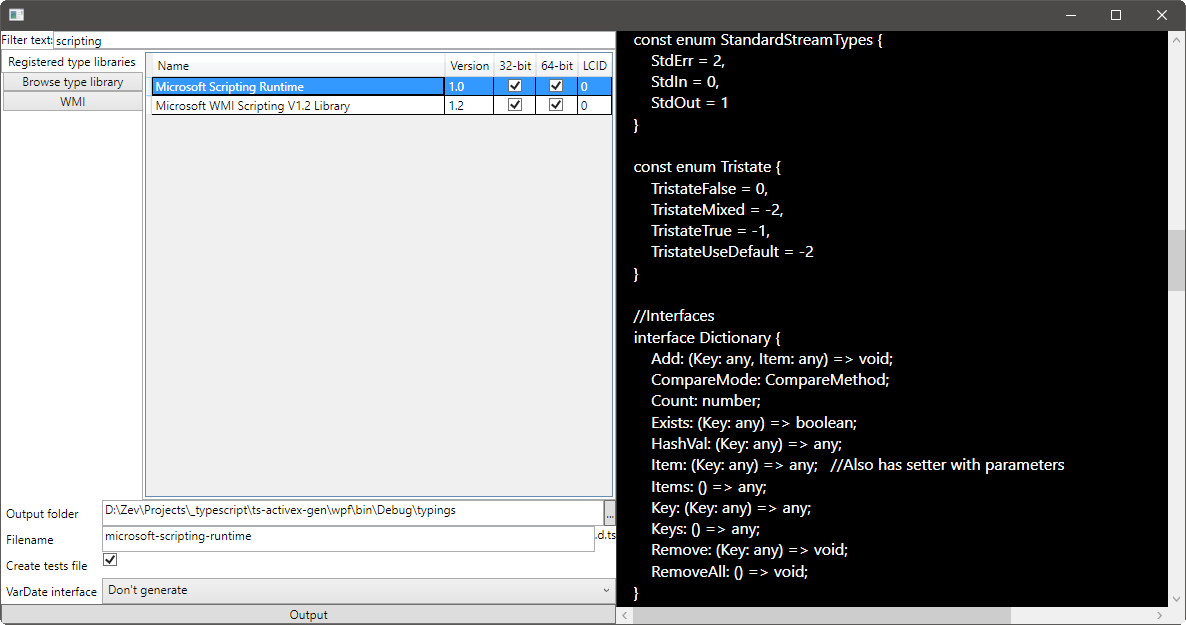
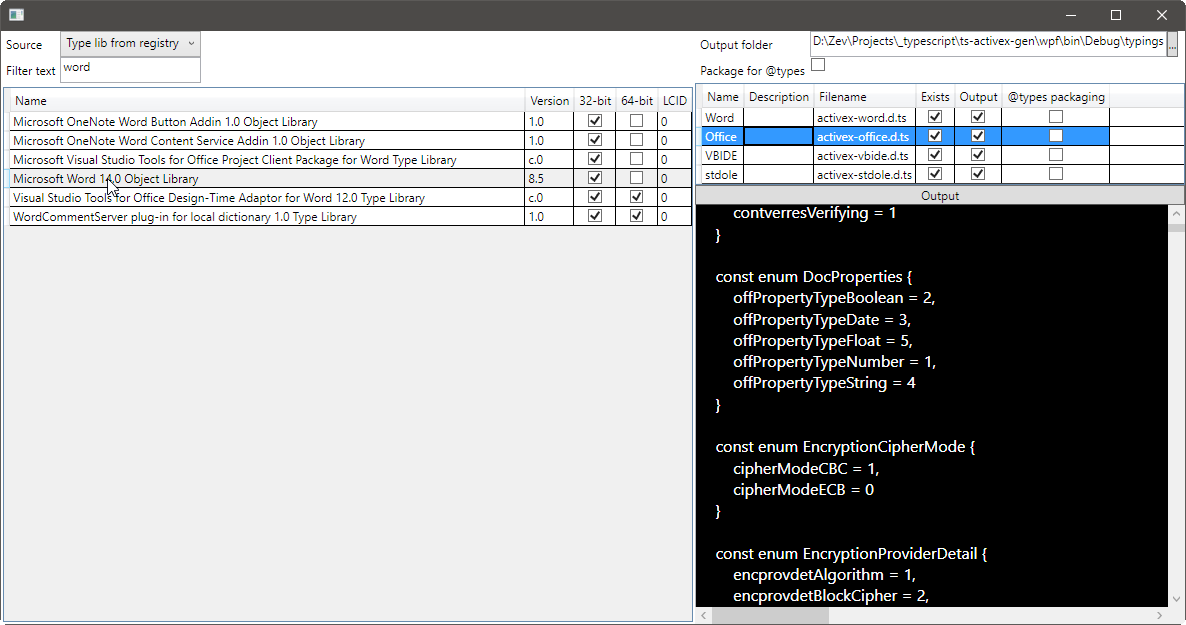
Updated screenshot

Changed region(s): [[0.0, 0.0304, 1.0, 1.0]]

diff --git a/wpf/MainWindow.xaml b/wpf/MainWindow.xaml
@@ -16,7 +16,7 @@
     <DockPanel>
         <DockPanel>
             <ag:AutoGrid DockPanel.Dock="Top" ColumnCount="2" RowCount="2">
-                <Label Content="Type" />
+                <Label Content="Source" />
                 <my:DefinitionTypesComboBox x:Name="cmbDefinitionType" />
                 <Label Content="Filter text" />
                 <TextBox x:Name="txbFilter" />
